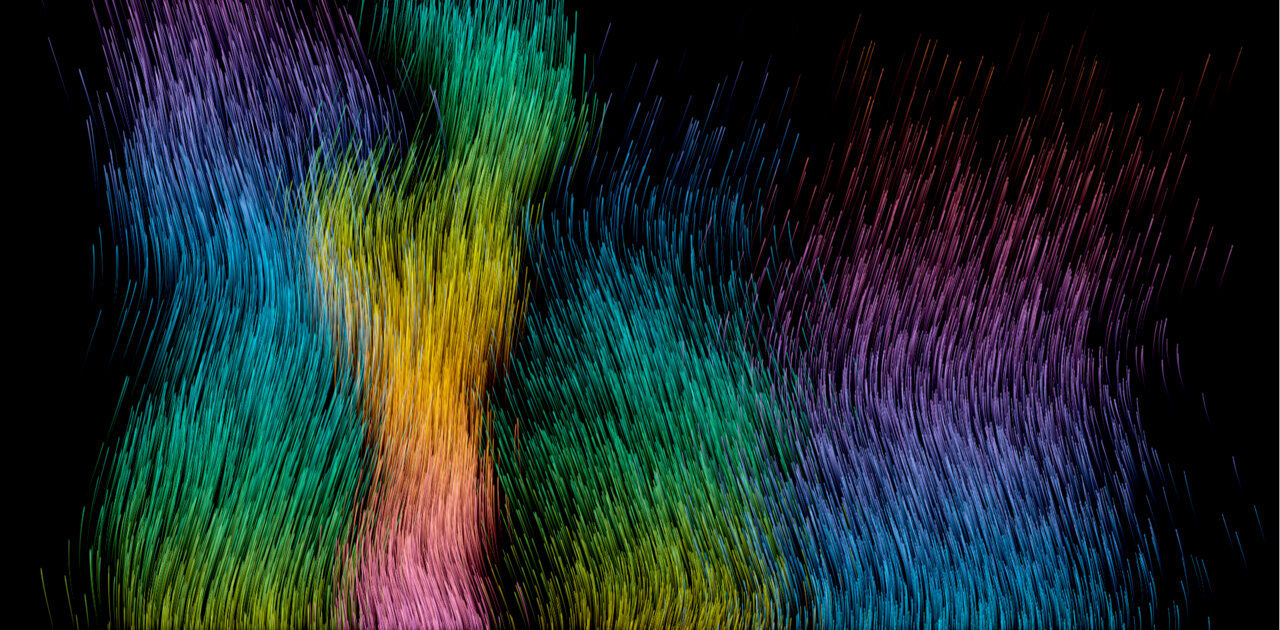
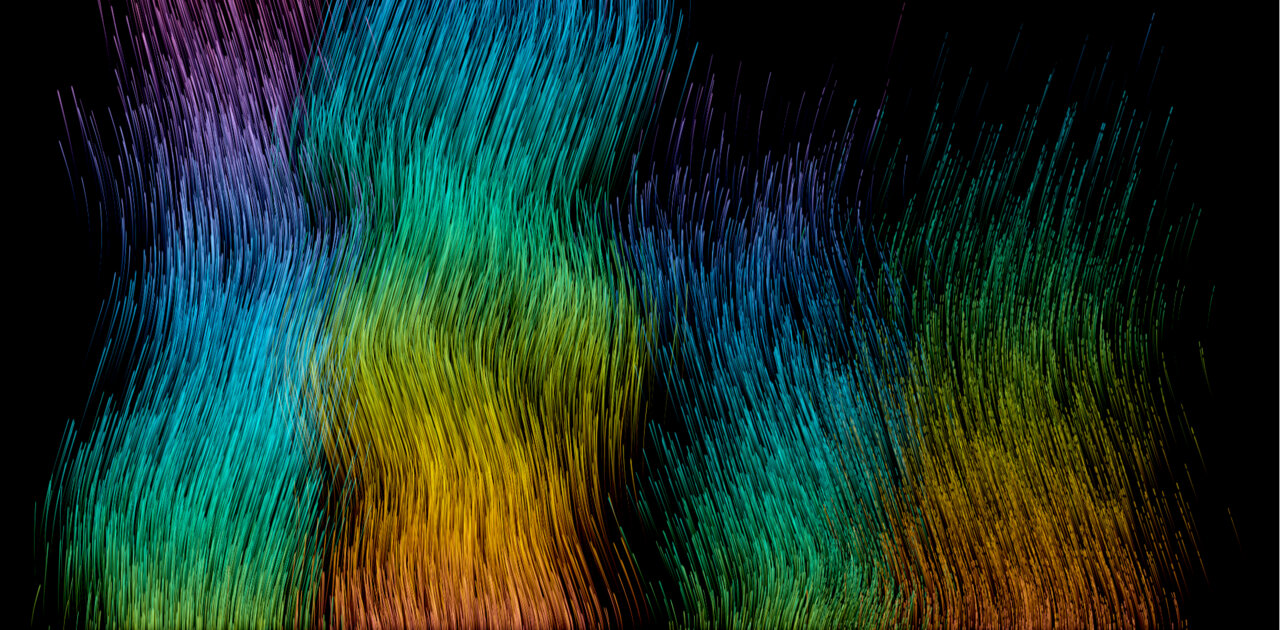
Update README screenshots with four varied moments
Replace the two earlier screenshots with four 1280x630 JPEGs (metadata stripped) showing different band widths, densities, trail lengths and hue combinations, and arrange them in a 2x2 grid in README.md.

diff --git a/README.md b/README.md
@@ -6,11 +6,12 @@ Status: all milestones (M0–M7) done; deployed with live data, with an optional
 
 ## Screenshots
 
-Two moments of the live page. Each vertical band is one server; the bands overlap at soft edges and braid as they rise. Load sets how fast and how long the trails are, changes in network and disk traffic make them wiggle sideways, and the hue drifts slowly through the rainbow. Bands with per-core data split into finer strands, where a busy core draws a tight, faster line. Band order and widths change daily from a secret salt, so the picture does not tell which server is which.
+Four moments of the live page. Each vertical band is one server; the bands overlap at soft edges and braid as they rise. Load sets how fast and how long the trails are, changes in network and disk traffic make them wiggle sideways, and the hue drifts slowly through the rainbow. Bands with per-core data split into finer strands, where a busy core draws a tight, faster line. Band order and widths change daily from a secret salt, so the picture does not tell which server is which.
 
 | | |
 |---|---|
-| ![River of rainbow-coloured particle trails in several bands flowing upwards on a black background](docs/images/river1.jpg) | ![The same river at another moment, with different hues and band widths](docs/images/river2.jpg) |
+| ![River of rainbow-coloured particle trails in four bands flowing upwards on a black background, two dense on the left and two sparser on the right](docs/images/river1.jpg) | ![The same river with brighter, denser bands and longer trails on the right](docs/images/river2.jpg) |
+| ![Four distinct, fast-flowing bands with long trails in violet, orange, cyan and gold](docs/images/river3.jpg) | ![Four wide bands braiding together across the canvas in rose, cyan, blue and green](docs/images/river4.jpg) |
 
 ## Layout
 
